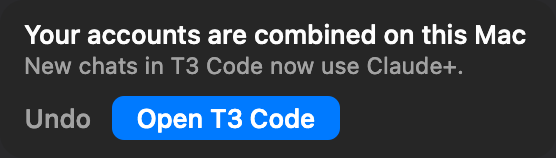
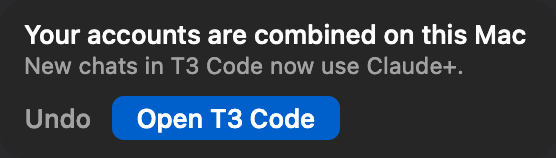
Darken the primary button fill so its white text reads at 4.5:1

Changed region(s): [[0.1835, 0.6076, 0.6115, 0.8861]]

diff --git a/Sources/Relaybar/Toast.swift b/Sources/Relaybar/Toast.swift
@@ -148,6 +148,7 @@ final class Toast {
 final class ToastButton: NSButton {
     private let run: () -> Void
     private let filled: Bool
+    private static let fill = NSColor.controlAccentColor.blended(withFraction: 0.25, of: .black) ?? .controlAccentColor
 
     init(title: String, filled: Bool, run: @escaping () -> Void) {
         self.run = run
@@ -159,7 +160,7 @@ final class ToastButton: NSButton {
             isBordered = false
             wantsLayer = true
             layer?.cornerRadius = 6
-            layer?.backgroundColor = NSColor.controlAccentColor.cgColor
+            layer?.backgroundColor = Self.fill.cgColor
             attributedTitle = NSAttributedString(
                 string: title, attributes: [.font: NSFont.systemFont(ofSize: 13, weight: .medium), .foregroundColor: NSColor.white])
             heightAnchor.constraint(equalToConstant: 22).isActive = true
@@ -183,7 +184,7 @@ final class ToastButton: NSButton {
     }
 
     override func viewDidChangeEffectiveAppearance() {
-        if filled { effectiveAppearance.performAsCurrentDrawingAppearance { layer?.backgroundColor = NSColor.controlAccentColor.cgColor } }
+        if filled { effectiveAppearance.performAsCurrentDrawingAppearance { layer?.backgroundColor = Self.fill.cgColor } }
     }
 
     @objc private func pressed() { run() }

diff --git a/DESIGN.md b/DESIGN.md
@@ -46,7 +46,7 @@ System font only. Menu bar: monospaced digits 9 pt medium (two stacked numbers) 
 - Do show a pooled account's state as words on the right of its card header ("in use", "paused", "signed out"); no extra summary cards.
 - Do build dialogs from native parts: `NSAlert` with the app icon, equal-width buttons, the default on the right, accessory views stacked with even spacing; destructive actions ask twice with Cancel as the default.
 - Do confirm a pause, resume or order change with a short note under the menu bar icon that fades after 2 seconds (cyan dot, outlined dot or cyan check); keep alerts for failures.
-- Do confirm combining accounts or moving the helper with the same note, never a blocking alert. When the note has a next step it holds its buttons under the text, aligned to the text edge, with one filled primary button on the right ("Open T3 Code", "Set Up Tailscale…") and a quiet text button with no fill on the left, and no tick, because the title already says it worked: "Undo" where the action can be undone, "Not Now" for an offer. The note closes by itself after 10 seconds, or stays until a button is pressed when it makes an offer.
+- Do confirm combining accounts or moving the helper with the same note, never a blocking alert. When the note has a next step it holds its buttons under the text, aligned to the text edge, with one primary button on the right, filled with the accent colour mixed 25% with black so its white text reads at 4.5:1 or better, ("Open T3 Code", "Set Up Tailscale…") and a quiet text button with no fill on the left, and no tick, because the title already says it worked: "Undo" where the action can be undone, "Not Now" for an offer. The note closes by itself after 10 seconds, or stays until a button is pressed when it makes an offer.
 - Do show a problem that the user must read (a warning that follows combining or moving) in a standard `NSAlert` with one OK button.
 - Don't dim accounts with transparency; dark colours become unreadable.
 - Don't show emails or account details in the menu bar or in tooltips.
